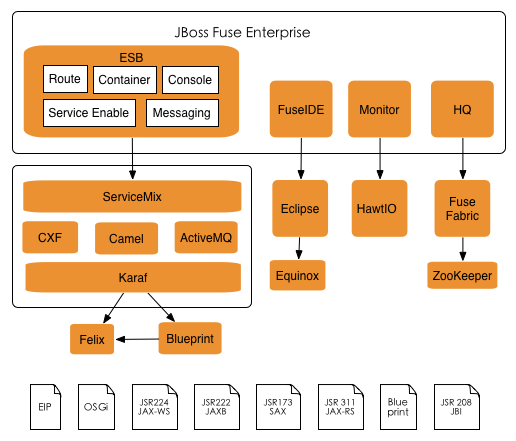
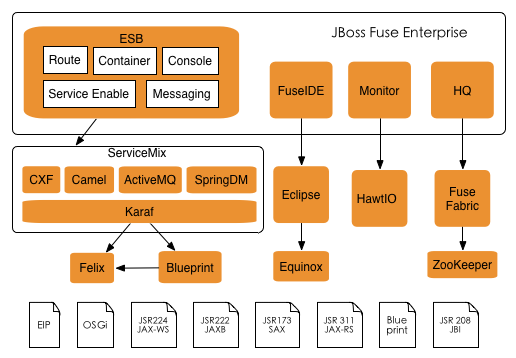
add content of SpringDM
Former-commit-id: 23bb0429caf1eb713ade1a56f6705c43624dd383

diff --git a/_posts/ea/2014-01-20-about_fuse_esb.md b/_posts/ea/2014-01-20-about_fuse_esb.md
@@ -31,9 +31,9 @@ JBoss Fuse由大量成熟的开源软件组合而成，包括但不仅限于：
     * Apache CXF
     * Apache Camel
     * Apache ActiveMQ
-      - BluePrint
-      - Spring
-	* Karaf
+    * SpringDM  
+	+ Karaf
+    - BluePrint
   + Fuse Fabric
   + HawtIO
 
@@ -82,7 +82,36 @@ Camel基于OSGi框架并使用依赖注入。支持Blueprint或Spring DM作为OS
 管理模型(JMX)等功能。
 
 其中，为了解决企业级应用开发所习惯的依赖注入，这些项目都实现了OSGi R4.2中规定了Blueprint标准。
+也就是说，[Blueprint是OSGi中的依赖注入规范](/2014/01/22/osgi_blueprint_container.html)。
 Apache Aries项目中对应的产品就是[Aries Blueprint](http://aries.apache.org/modules/blueprint.html)。
+
+# Spring DM
+
+[Spring DM(Spring Dynamic Modules)](http://docs.spring.io/osgi/docs/current/reference/html/)，其目标是使得用Spring开发的应用能够在OSGi容器中运行。Spring DM设计的Spring应用与OSGi平台的关系如下图：
+
+![](/images/fuse/spring-osgi-model.png)
+
+将应用模块封装为OSGi bundle时，需要将该应用的Spring装配文件放置到jar包的`META-INF/spring/`目录下。
+该装配文件除了传统的`bean`配置外，还可以配置`osgi:service`，以引用或发布OSGi服务。
+
+也可以在`MANIFEST.MF`中用`Spring-Context`参数进行指定。比如：
+
+```
+ Spring-Context: config/applicationContext.xml, config/beans-security.xml 
+ Spring-Context: *;create-asynchronously=false
+ Spring-Context: config/osgi-*.xml;wait-for-dependencies:=false
+ Spring-Context: *;timeout:=60 
+ Spring-Context: *;publish-context:=false
+```
+
+Spring DM提供了`spring-osgi-annotation`,`spring-osgi-core`,`spring-osgi-io`,`spring-osgi-extender`等bundle，可以部署到OSGi容器中。
+
+其中，`spring-osgi-extender`会创建OSGi容器中的“Spring Application Context”，并监听OSGi容器的事件。当有新的bundle部署时，`spring-osgi-extender`会检查该bundle是否包含`Spring-Context`或者`META-INF/spring/`中的装配文件。如果有，则将其视为“spring bundle”，会根据装配文件进行bean的组装，当需要引用或发布OSGi服务时，`spring-osgi-extender`会调用OSGi框架中相应的方法。
+最后，将bean加入到Application Context中。
+
+Spring DM与Blueprint的功能非常类似，实际上，先有Spring DM，然后才有Blueprint。尽管Spring DM项目已经停止了，但是
+为了适应“遗留系统”，在ServiceMix中依然集成了SpringDM。
+
 
 # Apache ActiveMQ
 
@@ -106,6 +135,7 @@ Apache Aries项目中对应的产品就是[Aries Blueprint](http://aries.apache.
 
 
 Karaf已经被诸多Apache项目作为基础容器,比如Apache Geronimo, Apache ServiceMix, Fuse ESB等。
+
 
 
 
